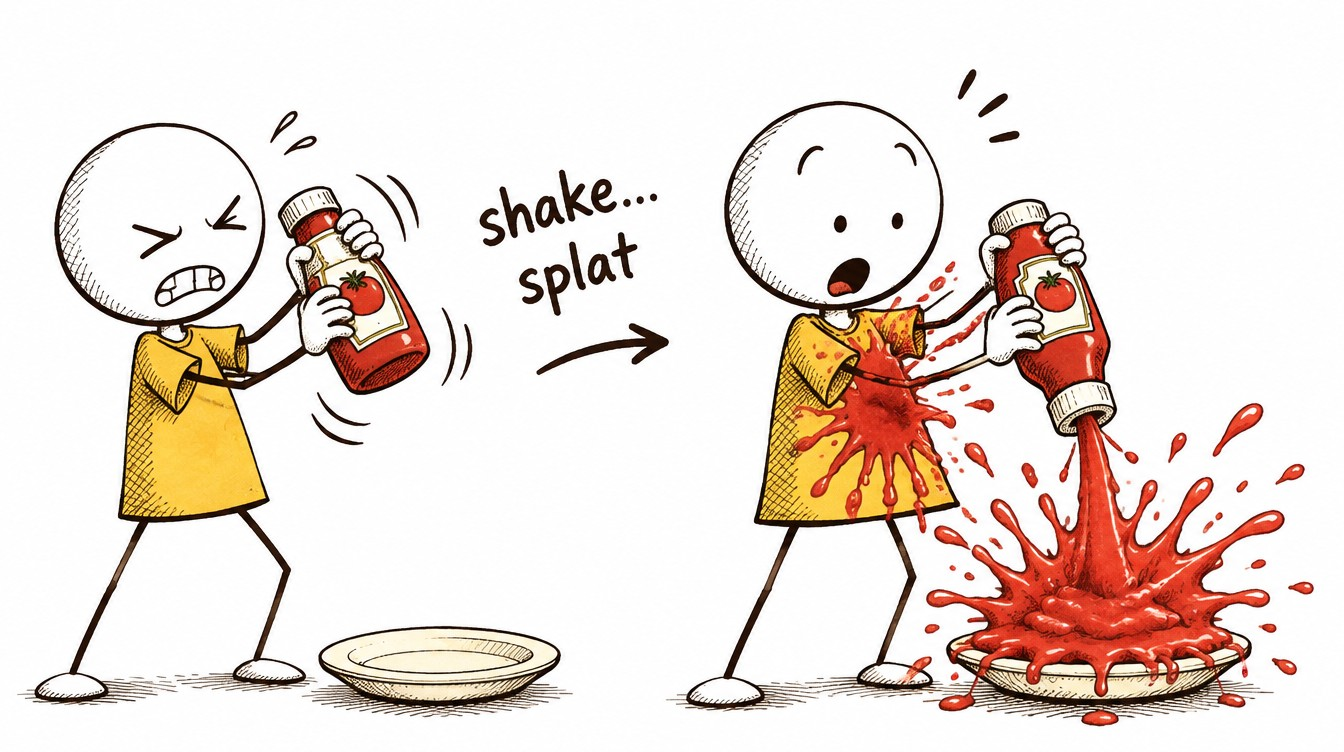
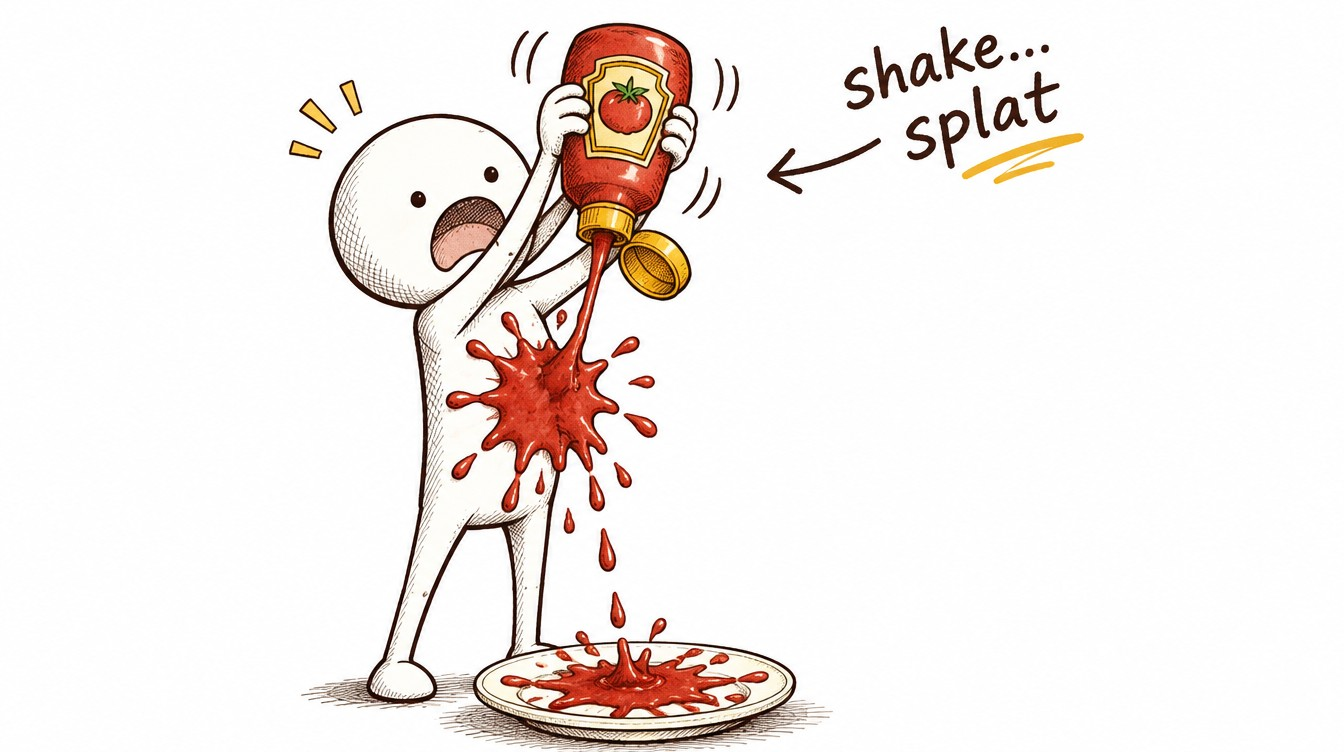
Fix narration tail cut in mixer; regenerate ketchup frames 37, 105, 116
Claude-Session: https://claude.ai/code/session_01TNc2K5SJr878gAAoSdETAS

diff --git a/drinks/ketchup/shots.py b/drinks/ketchup/shots.py
@@ -43,7 +43,7 @@ SHOTS = [
  (2,2,"an open 1727 cookbook with a recipe page, no readable text, anchovies, shallots, a vinegar bottle and a wine bottle beside it","1727"),
  (2,3,"a cartoon oyster in a tiny chef's hat diving into a pot",""),
  (2,4,"walnuts in a mortar and pestle with a sauce bottle beside it",""),
- (2,5,"a basket of brown mushrooms next to a bottle of thin black sauce","mushroom ketchup"),
+ (2,5,"a basket of brown mushrooms next to a corked bottle of thin black sauce; an object illustration only, there are no human beings, no hands and no faces in this image","mushroom ketchup"),
  (2,6,"an 18th-century English dining table with a roast and a fish, a gentleman pouring black mushroom ketchup over the meat",""),
  (2,7,"a long shelf of 18th-century sauce bottles all labelled with a little hand-drawn 'K', each a different colour","100 years"),
  (2,8,"a bottle labelled walnut ketchup with a cartoon walnut face",""),
@@ -116,7 +116,7 @@ SHOTS = [
  (7,3,"a scientific diagram of ketchup particles, tangled when still and lined up when pushed","weird liquid"),
  (7,4,"ketchup in a glass bottle drawn as a solid red block with a 'STOP' sign",""),
  (7,5,"ketchup suddenly whooshing out of a glass bottle like a waterfall with speed lines",""),
- (7,6,"stick-figure 'you' shaking the ketchup bottle furiously, then a giant red splat covering the plate and his shirt","shake... splat"),
+ (7,6,"one single stick-figure 'you' standing, holding a red ketchup squeeze bottle upside down with both hands, a big red ketchup splat on his white shirt and on the plate at his feet, shocked face; only one figure in the picture","shake... splat"),
  (7,7,"a close-up of the neck of a glass ketchup bottle with the number 57 embossed on it, little cartoon tap-tap motion lines around the 57, no hands","tap the 57"),
  (7,8,"a 1981 school cafeteria tray with a burger, fries and a tiny cup of ketchup labelled with a carrot icon","1981"),
  (7,9,"angry parents and teachers in 1980s clothes holding protest signs with a crossed-out ketchup bottle",""),
@@ -128,7 +128,7 @@ SHOTS = [
  (8,2,"a bottle of yellow-orange banana ketchup with a banana leaning on it, Philippine jeepney in the background","banana ketchup"),
  (8,3,"a plain brown clay jar of fermented fish sauce with a cartoon fish peeking out and waving","remember?"),
  (8,4,"a modern bottle of dark Indonesian soy sauce labelled kecap next to a bowl of fried rice","kecap"),
- (8,5,"a tomato crossed out with a red X, next to a bottle of dark Indonesian soy sauce","still no tomatoes"),
+ (8,5,"a tomato crossed out with a red X, next to a bottle of dark Indonesian soy sauce; an object illustration only, there are no human beings, no hands and no faces in this image","still no tomatoes"),
  (8,6,"a white round-headed stick figure with dot eyes, no ears, no hair, a very long white beard, both arms clearly holding the tomato, now very old, still waiting in the theatre wings beside a red curtain, holding a very wrinkly tomato","400 years later"),
  (8,7,"a timeline ribbon: fish jar, mushroom basket, pill box, dirty barrel, modern ketchup bottle","fish → ketchup"),
  (8,8,"stick-figure 'you' in a sailor's cap holding a tiny tomato pill and a glass of water, suspicious","would you?"),

diff --git a/drinks/music/mix_music.py b/drinks/music/mix_music.py
@@ -1,5 +1,6 @@
 # usage: mix_music.py video.mp4 narration.wav music.mp3 out.mp4
 # Builds a seamless long music bed (copies joined with 3 s crossfades), sets it ~20 dB under the voice,
+# Fix 2026-11-25: narration is padded with 5 s of silence before loudnorm — loudnorm used to swallow the last ~3 s (the final line).
 # ducks it a further ~6 dB while the narrator speaks, fades in/out, and remuxes with the untouched video.
 import sys, subprocess, json, math, os
 video, narr, music, out = sys.argv[1:5]
@@ -18,7 +19,7 @@ else:
         fc += f"{prev}[{k}:a]acrossfade=d={XF}:c1=tri:c2=tri{lab};"; prev = lab
     fc = fc.rstrip(";")
 subprocess.run(["ffmpeg","-v","error","-y",*inputs,"-filter_complex",fc,"-map","[bed]","-ar","48000","-ac","2",tmp],check=True)
-fc = (f"[1:a]aresample=48000,loudnorm=I=-16:TP=-1.5:LRA=11,aformat=channel_layouts=stereo,asplit=2[v][key];"
+fc = (f"[1:a]apad=pad_dur=5,aresample=48000,loudnorm=I=-16:TP=-1.5:LRA=11,aformat=channel_layouts=stereo,asplit=2[v][key];"
       f"[2:a]atrim=0:{T+1.5:.2f},volume=-23dB,afade=t=in:d=1.5,afade=t=out:st={T-1.5:.2f}:d=3[m];"
       f"[m][key]sidechaincompress=threshold=0.03:ratio=4:attack=30:release=500:makeup=1[md];"
       f"[v][md]amix=inputs=2:duration=first:normalize=0,alimiter=limit=0.89,apad[a]")
